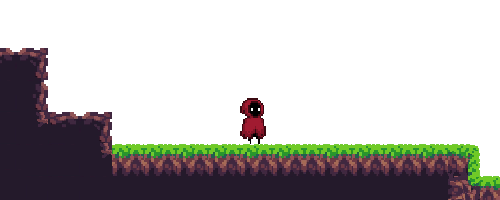
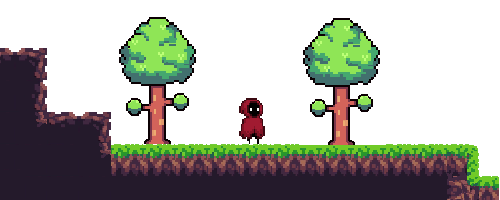
added camera movement

Changed region(s): [[0.06, 0.06, 1.0, 1.0], [0.0, 0.24, 0.09, 0.39]]

diff --git a/scripts/entity/player.py b/scripts/entity/player.py
@@ -60,16 +60,78 @@ class Player(Entity):
         self.y = self.position.y
         self.rect.y = self.y
     
+    def jump(self):
+        """checks if player is able to jump and sets the velocity"""
+        if self.on_ground:
+            self.last_jump = time.time()
+            self.double_jump = True
+            self.is_jumping = True
+            self.is_falling = False
+            self.velocity.y -= 13
+            self.rect.y = self.y
+            self.on_ground = False
+        elif self.double_jump and self.on_ground == False and time.time() - self.last_jump > 0.3:
+            self.double_jump = False
+            self.is_jumping = True
+            self.is_falling = False
+            self.velocity.y -= 13
+            self.on_ground = False
+        if self.velocity.y <= -15.5:
+            self.velocity.y = -15
+    
+    def horizontal_collision(self, tiles):
+        """checks for collision left and right and stopps player from moving in that direction"""
+        for tile in tiles:
+            tile_rect = tile[0].get_rect()
+            tile_rect.x = tile[1][0]
+            tile_rect.y = tile[1][1]
+            if self.rect.colliderect(tile_rect):
+                if self.velocity.x > 0:  # Hit tile moving right
+                    self.position.x = tile_rect.left - self.rect.w
+                    self.x = self.position.x
+                elif self.velocity.x < 0:  # Hit tile moving left
+                    self.position.x = tile_rect.right
+                    self.x = self.position.x
+        self.rect.x = self.x
+    
+    def vertical_collision(self, tiles):
+        """prevents player from falling through ground"""
+        self.on_ground = False
+        for tile in tiles:
+            tile_rect = tile[0].get_rect()
+            tile_rect.x = tile[1][0]
+            tile_rect.y = tile[1][1]
+            if self.rect.colliderect(tile_rect):
+                if self.velocity.y >= 0:  # Hit tile from the top
+                    self.on_ground = True
+                    self.is_jumping = False
+                    self.is_falling = False
+                    self.velocity.y = 0
+                    self.acceleration.y = self.gravity
+                    if self.keys[pygame.K_SPACE]:
+                        self.position.y = self.y - 20
+                        self.rect.y = self.position.y
+                    else:
+                        self.position.y = tile_rect.top
+                        self.rect.bottom = self.position.y
+                elif self.velocity.y < 0:  # Hit tile from the bottom
+                    self.velocity.y = 0
+                    self.position.y = tile_rect.bottom
+                    self.rect.top = self.position.y
+    
     def limit_velocity(self, max_vel):
         """limits the velocity of the player"""
         min(-max_vel, max(self.velocity.x, max_vel))
         if abs(self.velocity.x) < .01: self.velocity.x = 0
           
-    def update(self, wn, dt):
+    def update(self, wn, dt, tiles, scroll):
         """Draws and moves the player"""
         self.keys = pygame.key.get_pressed()
-        self.draw(wn)
+        self.draw(wn, scroll)
         self.horizontal_movement(dt)
+        self.horizontal_collision(tiles)
+        self.vertical_movement(dt)
+        self.vertical_collision(tiles)
     
     def initialize(self):
         """Loads images"""

diff --git a/game.py b/game.py
@@ -54,6 +54,9 @@ class Game:
             self.calculate_dt()
             self.events()
             
+            self.scroll[0] += int((self.player.rect.x  - self.scroll[0] - (self.width / 2)) / self.camara_smoothing)
+            self.scroll[1] += int((self.player.rect.y - self.scroll[1] - (self.height / 2)) / self.camara_smoothing)
+            
             self.render()
             self.frame_length = time.time()
     
@@ -72,9 +75,9 @@ class Game:
     
     def render(self):
         self.window.fill((0, 0, 0))
-        self.window.blit(self.map_surface, (0, 0))
-        self.player.update(self.window, self.dt)
-        self.enemy.update(self.window, self.dt)
+        self.window.blit(self.map_surface, (0 - self.scroll[0], 0 - self.scroll[1]))
+        self.player.update(self.window, self.dt, self.tile_list, self.scroll)
+        self.enemy.draw(self.window, self.scroll)
         
         self.window.blit(self.fps_text, (5, 5))
         

diff --git a/scripts/map.py b/scripts/map.py
@@ -47,8 +47,8 @@ class Map():
                             self.surface.blit(self.images[int(tile)], (x - scroll[0], y - scroll[1]))
                             self.tile_list.append([self.images[int(tile)], (x - scroll[0], y - scroll[1])])
                     if tile == '39':
-                        player_spawn = (x, y)
+                        player_spawn = (x, y - 30)
                     if tile == '40':
-                        enemy_spawn = (x, y)
+                        enemy_spawn = (x, y - 30)
         
         return [self.surface, self.tile_list, player_spawn, enemy_spawn]

diff --git a/scripts/entity/entity.py b/scripts/entity/entity.py
@@ -11,9 +11,9 @@ class Entity:
         self.rect = None
         self.mask = None
         
-    def draw(self, wn):
+    def draw(self, wn, scroll):
         """draws the entity on screen"""
-        wn.blit(self.image, (self.x, self.y))
+        wn.blit(self.image, (self.x - scroll[0], self.y - scroll[1]))
     
     def load_images(self, path, image_size, sprite_rows, spite_cols):
         """Gets images from sprite and saves them in a array"""
